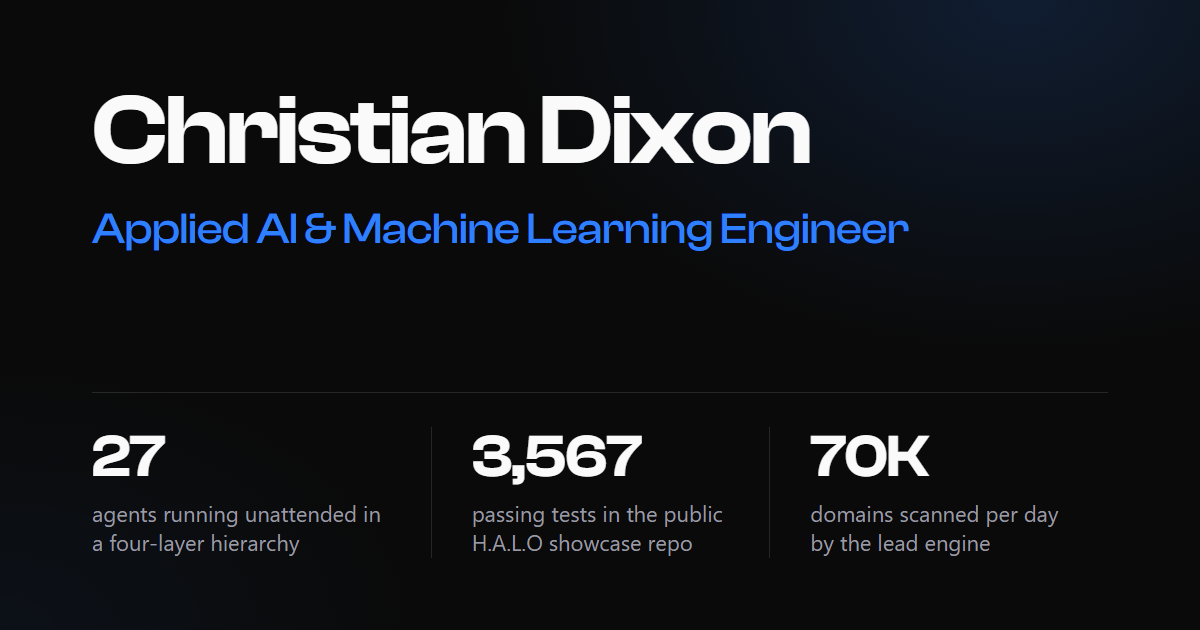
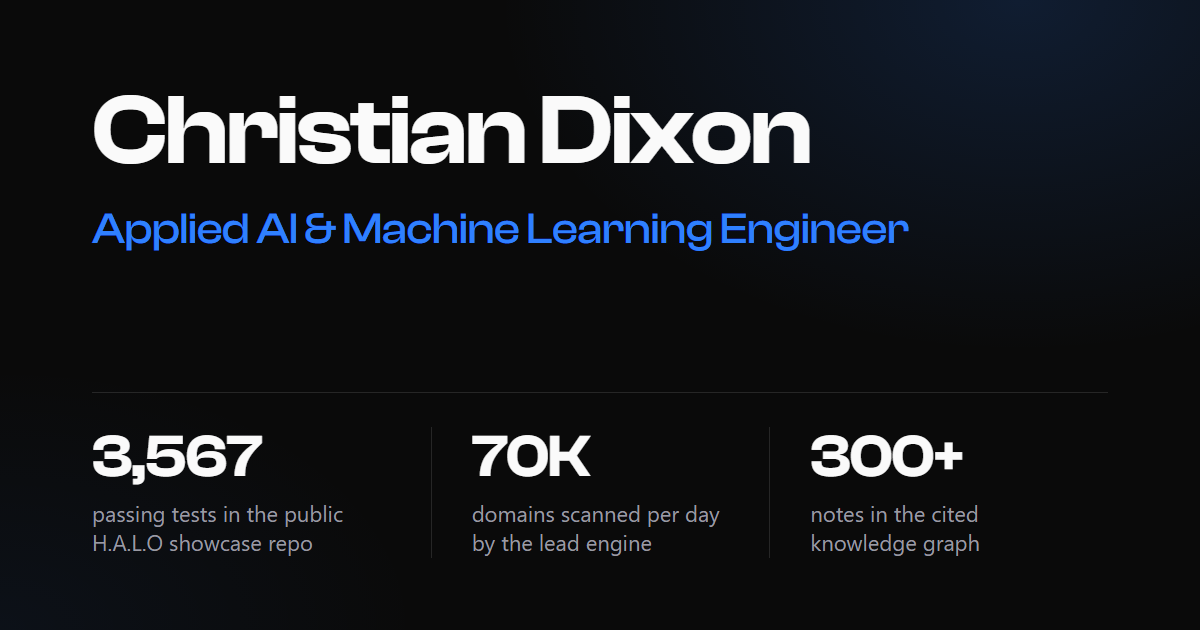
Content polish: small counts, hit areas, clipped links, related systems (#23)
* content: drop small test counts, fix hit areas and clipped links, widen related systems

- Remove test counts under 1,000 from copy (Omni SDR 283, Open ClaudeOS 434,
  Lead-Generation 231, Claude Modder 400 histories) and the 27-agent headline chip.
- Check-content fails on a bare "N tests" with N under 1,000 (thousands separators
  stay), with unit tests; README, CONTENT.md and og.png updated to match.
- Desktop hit areas: Motion and Sound toggles, mail link and project list links
  get a transparent ::after box so each target is at least 24 px tall.
- Remove the 44 px row rule on the visually hidden Connections copy, which
  collapsed its links to 1 px wide at 390.
- Related systems: jamlink lists receptionist-live and lobby, open-waddle lists
  open-claudeos and trading-bot, claude-modder lists lobby and halo-agent-os.

* Restore resume headline figures (27 agents, 4 providers) and the 30+ days wording

---------

diff --git a/src/data/projects.js b/src/data/projects.js
@@ -27,7 +27,7 @@ export const projects = [
     problem: 'AI sales tools are judged on how much they send, so they send a lot and make things up: a statistic the prospect never saw, a follow-up to a call that never happened.',
     built:
       'Replies are classified and sorted with a business-hours SLA. A claims gate blocks any sentence with a number, price or superlative that is not backed by evidence for that contact. The send is guarded in the database: gate passed, same tenant, not suppressed and the daily cap are checked inside the same transaction that writes the message. A second model can only say stop, never send.',
-    result: 'Pre-launch, with the backend running in production on Google Cloud. The test suite runs 283 tests. The public showcase repo shows the product; the source is private.',
+    result: 'Pre-launch, with the backend running in production on Google Cloud. The public showcase repo shows the product; the source is private.',
     metrics: [],
     stack: ['TypeScript', 'Node.js', 'PostgreSQL', 'Google Cloud', 'Gmail API'],
     liveUrl: 'https://omnisdr.com',
@@ -123,10 +123,8 @@ export const projects = [
     problem: "Approval dialogs ask people to trust the model's description of an action, which is the wrong thing to approve.",
     built:
       'Each proposal is a list of typed actions, and the approval card is generated from those actions rather than from the model\'s prose. An on-device router answers the questions it is confident about. C# on .NET 10 with WinUI 3.',
-    result: 'Every answer the on-device router gave at 80% or more confidence was correct. The repo carries 434 tests.',
-    metrics: [
-      { value: '434', label: 'tests in the open repo' },
-    ],
+    result: 'Every answer the on-device router gave at 80% or more confidence was correct.',
+    metrics: [],
     stack: ['C#', '.NET 10', 'WinUI 3'],
     liveUrl: null,
     repoUrl: 'https://github.com/DimeDataCloud/open-ClaudeOS',
@@ -195,10 +193,9 @@ export const projects = [
     built:
       'A scoring model on two axes, fit and intent, fed by a 70K-domain daily newly-registered feed cross-matched against permit records, DNS, TLS and archive probes. Thresholds were tuned on measured conversion, and the FIT score is capped by the evidence behind it. Tiered output routes straight into the CRM with the evidence that scored it attached.',
     result:
-      'The lead-engine-showcase repo carries 231 enterprise tests for the scoring pipeline.',
+      'The scoring pipeline is covered by enterprise tests in the lead-engine-showcase repo.',
     metrics: [
       { value: '70K', label: 'domains per day scanned' },
-      { value: '231', label: 'enterprise tests in the lead-engine-showcase repo' },
       { value: 'FIT', label: 'score capped by the evidence behind it' },
     ],
     stack: ['Python', 'Node.js', 'Overpass API', 'Gemini 2.5 Flash', 'PostgreSQL', 'Cloudflare Workers', 'Docker'],
@@ -235,6 +232,7 @@ export const projects = [
     status: 'progress',
     statusText: 'Open source',
     theme: ['infra', 'assist'],
+    related: ['lobby', 'halo-agent-os'],
     patterns: ['approval'],
     desc: 'A fleet orchestrator for Claude Code sessions with a permission gate that learns from outcomes.',
     problem: 'Running many Claude Code sessions at once means answering the same permission prompts again and again.',
@@ -255,11 +253,12 @@ export const projects = [
     status: 'progress',
     statusText: 'Open source',
     theme: ['assist'],
+    related: ['open-claudeos', 'trading-bot'],
     patterns: ['approval', 'tamper'],
     desc: 'A desktop AI agent drawn as a pixel-art duck that asks before it acts.',
     problem: 'A desktop agent with broad access is only safe if its permissions are decided in code and its record cannot be quietly edited.',
     built:
-      'Four deterministic permission tiers, with approval only from a UI click and never from the model. The activity log is append-only and hash-chained, so an edited entry breaks the chain. Rust, Tauri 2 and TypeScript.',
+      'Deterministic permission tiers, with approval only from a UI click and never from the model. The activity log is append-only and hash-chained, so an edited entry breaks the chain. Rust, Tauri 2 and TypeScript.',
     result: 'Permissions are decided by code, approvals come from a human click, and the activity log shows any edit made after the fact.',
     metrics: [],
     stack: ['Rust', 'Tauri 2', 'TypeScript'],
@@ -275,7 +274,7 @@ export const projects = [
     status: 'progress',
     statusText: 'Open source',
     theme: ['voice', 'infra'],
-    related: ['receptionist-live'],
+    related: ['receptionist-live', 'lobby'],
     desc: 'Browser-only two-player guitar jamming over WebRTC.',
     problem: 'Remote guitar jamming falls apart when latency and jitter go past what two players can play through.',
     built:

diff --git a/src/styles/main.css b/src/styles/main.css
@@ -180,7 +180,7 @@ header > * { pointer-events: auto; }
   display: flex; align-items: center; gap: 14px;
   position: absolute; left: 50%; translate: -50% 0;
 }
-.mode-btn { opacity: 0.4; transition: opacity 0.3s; font-weight: 500; font-size: var(--text-s); }
+.mode-btn { position: relative; opacity: 0.4; transition: opacity 0.3s; font-weight: 500; font-size: var(--text-s); }
 .mode-btn.active, .mode-btn:hover { opacity: 1; }
 .mode-label { position: relative; display: block; overflow: hidden; height: 1.3em; }
 .mode-label span { display: block; transition: transform 0.45s var(--spring); }
@@ -264,7 +264,7 @@ body.menu-open .menu-btn { opacity: 0; pointer-events: none; }
   display: flex; align-items: center; justify-content: space-between; flex-wrap: wrap; gap: 10px;
   padding: clamp(16px, 2.5vw, 24px);
 }
-.menu-mail { font-size: var(--text-s); font-weight: 500; }
+.menu-mail { position: relative; font-size: var(--text-s); font-weight: 500; }
 .menu-mail:hover { color: var(--accent); }
 .menu-socials { display: flex; gap: 8px; }
 .menu-socials a {
@@ -333,6 +333,7 @@ body.entered:not(.no-webgl) .project-list a:focus-visible .pl-year { color: var(
    and it passes the gate (see main.js), so keyboard users need no Enter first */
 
 .project-list a {
+  position: relative;
   display: flex; align-items: baseline; gap: 14px;
   font-family: var(--font-display); font-weight: 600;
   font-size: clamp(1.3rem, 4.6vh, 3.2rem);
@@ -592,8 +593,6 @@ body.entered:not(.no-webgl) .project-list a:focus-visible .pl-year { color: var(
   .project-list a { font-size: clamp(1.25rem, 3.6vh, 1.9rem); }
   /* touch: each project entry and the contact link are 44 px tall (the visual size is unchanged) */
   .project-list a, .menu-links a { min-height: 44px; display: flex; align-items: center; }
-  /* the static Connections list (SEO copy, visually hidden) gets the same 44 px rows */
-  #connections-static a { min-height: 44px; display: flex; align-items: center; }
   .contact-mail { display: inline-flex; align-items: center; min-height: 44px; }
   .menu-panel { width: calc(100vw - var(--edge) * 2); }
   .metrics { grid-template-columns: repeat(2, minmax(0, 1fr)); }
@@ -755,3 +754,7 @@ body.no-webgl .pl-desc {
   margin-top: 2px;
 }
 body.no-webgl .project-list a:hover .pl-title { text-decoration: underline; text-underline-offset: 6px; }
+
+/* Hit areas: the Motion and Sound toggles, the mail link and the project list links are about 20 px tall on desktop.
+   A transparent ::after box widens each to at least 24 px without changing the layout or the look. */
+.mode-btn::after, .menu-mail::after, .project-list a::after { content: ""; position: absolute; inset: -4px -6px; }

diff --git a/src/data/profile.js b/src/data/profile.js
@@ -17,9 +17,10 @@ export const profile = {
 
 // Headline numbers, shown as a strip on the About panel.
 export const metrics = [
-  { value: '27', label: 'agents in a four-layer hierarchy run unattended' },
+  { value: '27', label: 'agents in a four-layer hierarchy, run unattended' },
   { value: '3,567', label: 'passing tests in the public H.A.L.O showcase repo (measured 2026-09-10)' },
   { value: '70K', label: 'domains scanned per day by the lead engine' },
+  { value: '4', label: 'model providers behind one interface, with automatic failover' },
   { value: '300+', label: 'notes in the cited knowledge graph' },
 ];
 

diff --git a/README.md b/README.md
@@ -38,7 +38,6 @@ Email chris@dimedata.cloud · [LinkedIn](https://www.linkedin.com/in/christian-s
 
 | Headline number | What it measures (self-reported from my own production logs and evaluation runs) | Evidence |
 |---|---|---|
-| 27 | agents running unattended in a four-layer hierarchy | private, walkthrough on request |
 | 3,567 | passing tests in the public H.A.L.O showcase repo (measured 2026-09-10) | [HALO showcase](https://github.com/DimeDataCloud/halo-agent-showcase#by-the-numbers) |
 | 70K | domains scanned per day by the lead engine | [lead engine showcase](https://github.com/DimeDataCloud/lead-engine-showcase) |
 | 300+ | notes in the cited knowledge graph | [BrainAI graph](https://github.com/DimeDataCloud/brain-graph) |
@@ -47,16 +46,16 @@ Email chris@dimedata.cloud · [LinkedIn](https://www.linkedin.com/in/christian-s
 
 | Project | What it is | Key metric | Status | Link |
 |---|---|---|---|---|
-| Omni SDR | Sales development layer that checks every claim before a human-approved send | Database-enforced send guard; 283 tests | Pre-launch | [live](https://omnisdr.com), [repo](https://github.com/DimeDataCloud/omni-sdr-showcase) |
+| Omni SDR | Sales development layer that checks every claim before a human-approved send | Database-enforced send guard | Pre-launch | [live](https://omnisdr.com), [repo](https://github.com/DimeDataCloud/omni-sdr-showcase) |
 | H.A.L.O Agent OS | Operating system for a one-person business, 27 agents in four layers | 578 tokens of fixed overhead per turn | Paused, case study | [repo](https://github.com/DimeDataCloud/halo-agent-showcase) |
 | AI Voice Receptionist | Virtual agent that answers the phone, qualifies the caller and books the appointment | Under 2 s response budget | Case study | private, available on request |
 | Agent Evaluation Harness | Statistical harness on benchmarks written outside the company | About 47 hypothesis tests | Operational | private, available on request |
-| Open ClaudeOS | Claude proposes, deterministic code decides, and the user approves a card (C# on .NET 10, WinUI 3) | 434 tests | Open source, Apache-2.0 | [repo](https://github.com/DimeDataCloud/open-ClaudeOS) |
+| Open ClaudeOS | Claude proposes, deterministic code decides, and the user approves a card (C# on .NET 10, WinUI 3) | Every answer the on-device router gave at 80% or more confidence was correct | Open source, Apache-2.0 | [repo](https://github.com/DimeDataCloud/open-ClaudeOS) |
 | BrainAI Knowledge Graph | 300+ wikilinked notes in Neo4j, read by Claude over a read-only MCP server | Every Cypher statement checked and run read-only | Operational | [repo](https://github.com/DimeDataCloud/brain-graph) |
 | Self-Hosted CRM | Pipelines, funnels and a Call Room that prepares the rep before every dial | Under 10% of replies escalated to a person | Case study | [repo](https://github.com/DimeDataCloud/crm-showcase) |
 | Lead-Generation Engine | Two-axis lead scoring from free public signals | 70K domains scanned per day | Case study | [repo](https://github.com/DimeDataCloud/lead-engine-showcase) |
 | Lobby | Shared canvas where humans and AI agents post artifacts | Bot tokens scoped to one workspace | Open source, MIT | [repo](https://github.com/DimeDataCloud/lobby) |
-| Claude Modder | Fleet orchestrator for Claude Code sessions with a learning permission gate | Safety property tested over 400 random histories | Open source, MIT | [repo](https://github.com/DimeDataCloud/claude-modder) |
+| Claude Modder | Fleet orchestrator for Claude Code sessions with a learning permission gate | Safety property tested over random histories | Open source, MIT | [repo](https://github.com/DimeDataCloud/claude-modder) |
 | Open Waddle | Desktop AI agent drawn as a pixel-art duck that asks before it acts | Four deterministic permission tiers | Open source, MIT | [repo](https://github.com/DimeDataCloud/Open-Waddle) |
 | Jamlink | Browser-only two-player guitar jamming over WebRTC | Enforced 60 ms latency budget | Open source, MIT | [repo](https://github.com/DimeDataCloud/jamlink) |
 | Trading Bot | Paper-only research desk with pre-registered experiments. Not financial advice. | Hash-chained audit log | Paper trading only, MIT | [repo](https://github.com/DimeDataCloud/trading-bot) |
@@ -185,7 +184,7 @@ To deploy under another domain, change the route in `wrangler.toml` and make sur
 - **Unit tests.** `npm test` runs the Node test runner (`node:test`, no extra dependencies) over `tools/test/`. It covers the build-time HTML and JSON-LD from `tools/vite-static-content.js`, each content guardrail rule in `tools/content-rules.mjs`, and a run of the guardrail script on this repository.
 - **Accessibility.** `npm run a11y` runs axe-core (`@axe-core/playwright`, pinned) against the built site: the static project list at desktop and phone widths, and the case-study dialog open at both. It fails on serious or critical WCAG 2.0/2.1 A and AA violations. It needs a running preview or a URL argument, and CI runs it against `vite preview`.
 - **Bundle budget.** Gzipped JavaScript across `dist/assets` must stay under 160 KB. The current build measures 151.3 KB, with Three.js included.
-- **Content rules** enforced by the guardrails: every project has the required fields and a unique slug; links are `https`; a project with no public link has a `privateNote`; every slug has a scene builder; every `related` slug names a project; shared-pattern ids are defined and used; no metric chip is a bare count under 100, and no small count is used as evidence in copy; the contact email is the public one; no em dashes, phone numbers or secret-shaped strings in site source.
+- **Content rules** enforced by the guardrails: every project has the required fields and a unique slug; links are `https`; a project with no public link has a `privateNote`; every slug has a scene builder; every `related` slug names a project; shared-pattern ids are defined and used; no metric chip is a bare count under 100, no small count is used as evidence in copy, and no test count under 1,000 appears in copy; the contact email is the public one; no em dashes, phone numbers or secret-shaped strings in site source.
 - **Review** uses the Playwright scripts above on desktop and phone sizes. They run locally; `smoke`, `a11y` and the unit tests also run in CI.
 
 ## Fonts, icons and licence

diff --git a/docs/CONTENT.md b/docs/CONTENT.md
@@ -93,4 +93,4 @@ These rules are checked or enforced in review.
 - No credentials. The guardrail scans tracked files for common key shapes.
 - No eyebrow labels, scroll cues or live clocks in copy.
 - Numbers must trace to the record or to a measurement you can reproduce. Do not round up.
-- No small counts as evidence. A metric chip that is a bare count under 100 is removed, and copy does not use counts such as "45 tests" or "11 of them". Percentages, thresholds ("0.85", "< 2 s") and time budgets ("60 ms") stay, as do architecture facts in words ("four providers", "27 agents"). The guardrail flags the cases it can match.
+- No small counts as evidence. A metric chip that is a bare count under 100 is removed, and copy does not use a test count under 1,000 (the check flags a bare count of tests) or a count such as "11 of them". Percentages, thresholds ("0.85", "< 2 s") and time budgets ("60 ms") stay, as do architecture facts in words ("four providers", "27 agents"). The guardrail flags the cases it can match.
